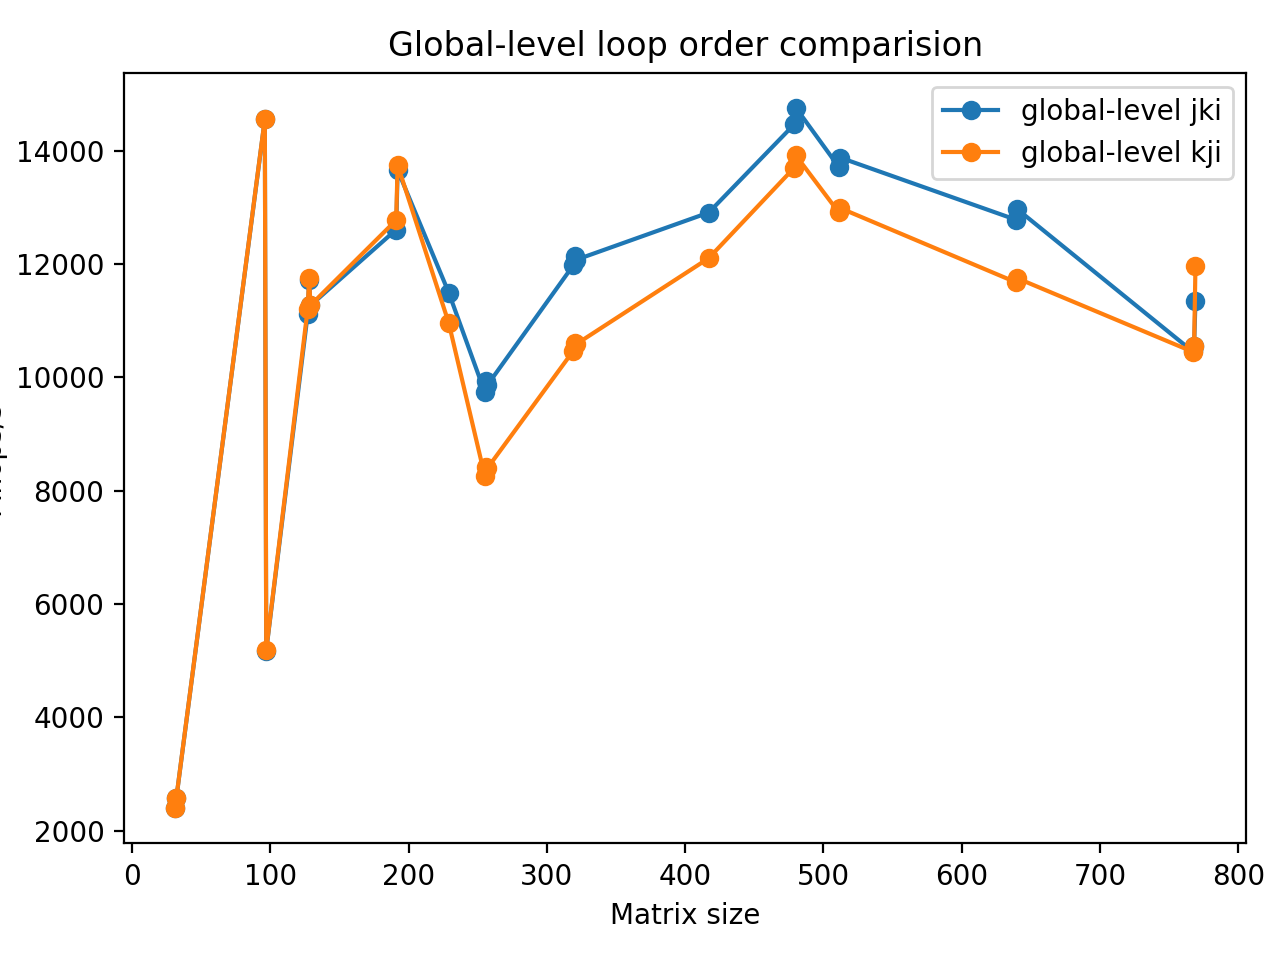
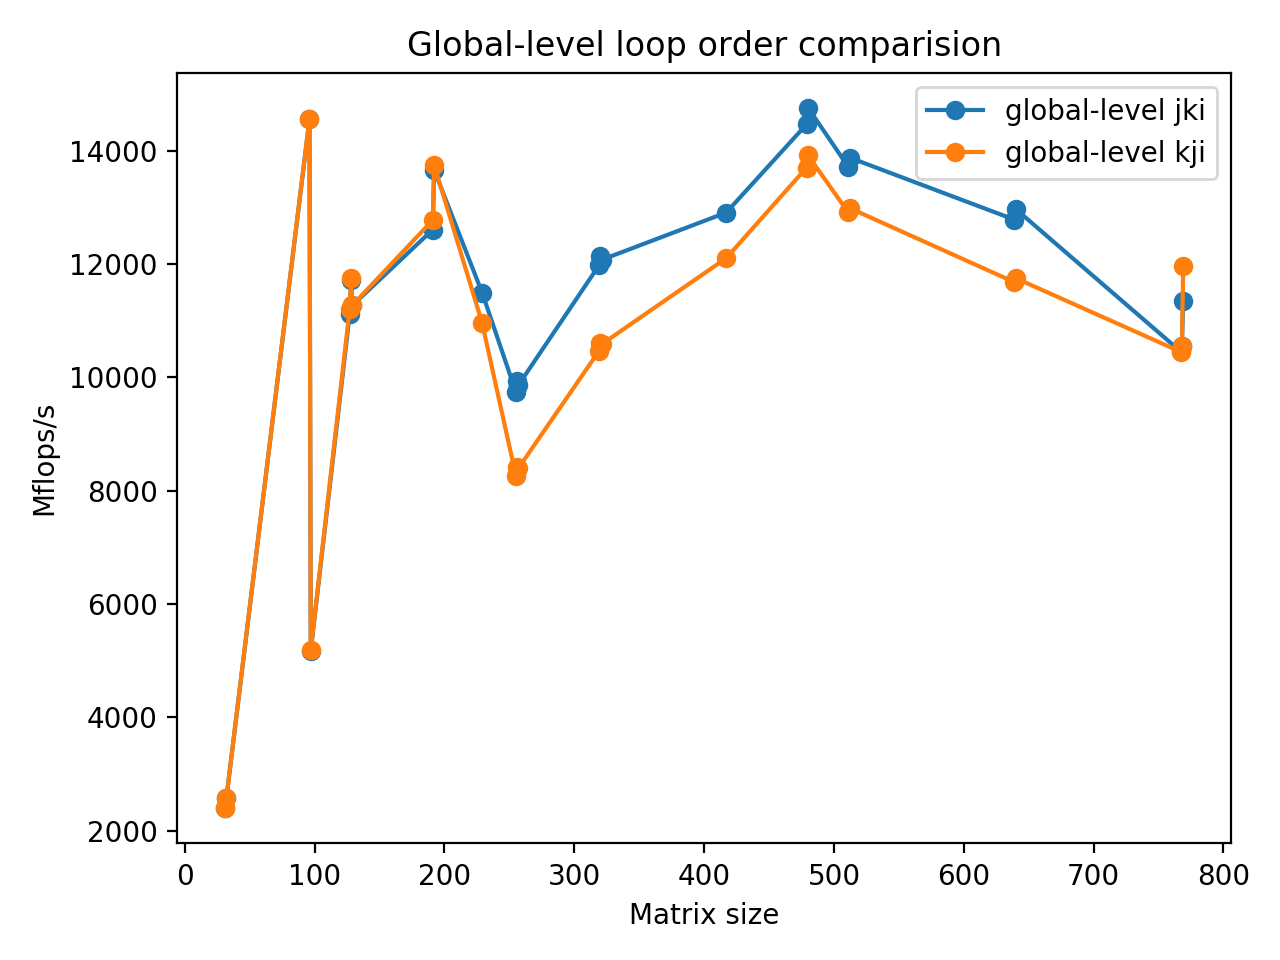
add more graphs

diff --git a/hw1/draw_experiment.py b/hw1/draw_experiment.py
@@ -51,6 +51,7 @@ def plot_exps(exps, labels, filename, title):
     plt.ylabel("Mflops/s")
     plt.legend()
     plt.title(title)
+    plt.tight_layout()
     plt.savefig(fig_root / (filename + ".png"))
     plt.clf()
 
@@ -98,6 +99,32 @@ def main():
     exp4 = Exp(root / "job-blocked.exp4")
     plot_exps([exp3, exp4], ["global-level jki", "global-level kji"], "global_level", "Global-level loop order comparision")
 
+    exp7 = Exp(root / "job-blocked.exp7")
+    plot_exps([exp3, exp7], ["w/o packing", "w/ packing"], "pack_or_not", "Pack or not comparision")
+
+    # two level blocking
+    exp9_b144 = Exp(root / "job-blocked.exp9_b144")
+    exp9_b192 = Exp(root / "job-blocked.exp9_b192")
+    exp9_b240 = Exp(root / "job-blocked.exp9_b240")
+    exp9_b288 = Exp(root / "job-blocked.exp9_b288")
+    exp9_b336 = Exp(root / "job-blocked.exp9_b336")
+    exp9_b384 = Exp(root / "job-blocked.exp9_b384")
+
+    plot_percent([exp3, exp9_b144, exp9_b192, exp9_b240, exp9_b288, exp9_b336, exp9_b384],
+            ["one level"]  + ["{}".format(num) for num in [144, 192, 240, 288, 336, 384]],
+             "BLOCK_SIZE",
+             "two_level_blocksize", "The effect of different BLOCK_SIZE for two-level blocking")
+
+    # padding
+    exp11 = Exp(root / "job-blocked.exp11")
+    plot_exps([exp3, exp11], ["w/ padding", "w/o padding"], "pad_or_not", "Pad or not comparision")
+    plot_percent([exp3, exp11], ["w/ padding", "w/o padding"], "Method",
+            "pad_or_not_bar", "Pad or not comparision")
+
+    # loop unroll
+    exp8 = Exp(root / "job-blocked.exp8")
+    plot_exps([exp3, exp8], ["w/o loop unroll", "w/ loop unroll"], "loop_unroll", "Loop unroll or not comparision")
+    plot_percent([exp3, exp8], ["w/o loop unroll", "w/ loop unroll"], "Method", "loop_unroll_bar", "Loop unroll or not comparision")
 
 if __name__ == "__main__":
     main()
